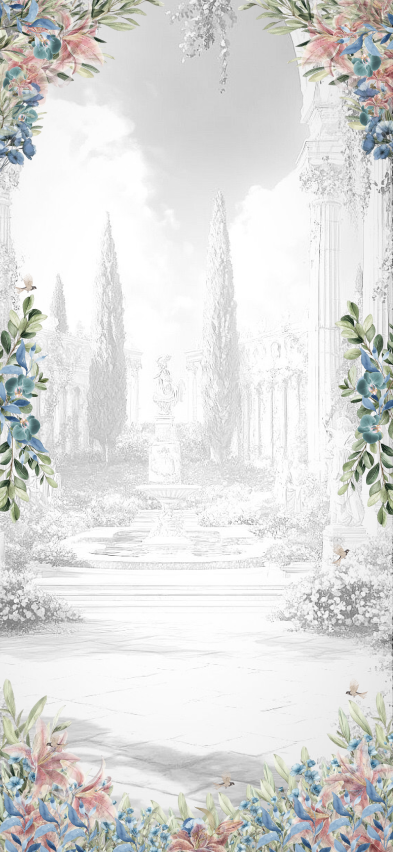
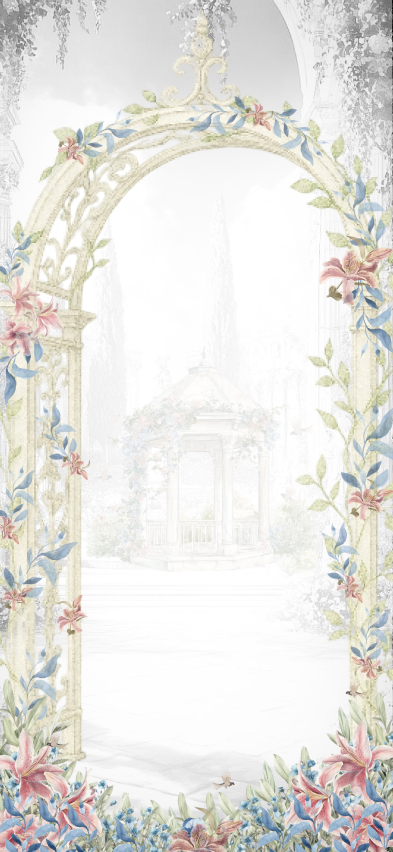
adjust opening page feature

diff --git a/src/app/v2/page.tsx b/src/app/v2/page.tsx
@@ -9,13 +9,14 @@ import Image from 'next/image'
 import { Card, CardContent } from "@/components/ui/card";
 import AddToGoogleCalendarButton from "@/features/index/components/reception-date/reception-date";
 import Link from "next/link";
-import Dashboard from "@/features/index/components/dashboard/dashboard-v3";
+import Dashboard from "@/features/index/components/dashboard/dashboard-static";
 import ButtonPlayMusic from "@/features/index/components/button-play-music";
 import { ButtonGreetings, GreetingsCard } from "@/features/index/components/greetings";
 import GiftCard from "@/features/index/components/gift/gift-card";
 import PhotoGallery from "@/features/index/components/bridal-photo/photo-gallery";
 import { openGallery } from "@/redux-store/gallerySlice";
 import { useDispatch } from "react-redux";
+import Opening from "@/features/index/components/opening/opening";
 // import Dashboard from "@/features/index/components/dashboard/dashboard";
 
 // Daftarkan plugin
@@ -112,11 +113,6 @@ export default function Home() {
 					{ scale: 1, ease: "power1.inOut", duration: 1 },
 					'='
 				)
-				.fromTo('#reception_date .text-3', 
-					{ scale: 0, },
-					{ scale: 1, ease: "power1.inOut", duration: 1 },
-					'='
-				)
 				.fromTo('#reception_date .button-1', 
 					{ scale: 0, },
 					{ scale: 1, ease: "power1.inOut", duration: 1 },
@@ -162,11 +158,6 @@ export default function Home() {
 				.fromTo('#greetings .text-1', 
 					{ scale: 0, },
 					{ scale: 1, ease: "power1.inOut", duration: 1 },
-					'='
-				)
-				.fromTo('#greetings .card', 
-					{ opacity: 0, },
-					{ opacity: 1, ease: "power1.inOut", duration: 1 },
 					'='
 				)
 				.fromTo('#greetings .button-1', 
@@ -232,20 +223,7 @@ export default function Home() {
 		<>
 			<main ref={mainContainer} className="relative min-h-screen max-w-[440px] overflow-x-hidden mx-auto bg-white">
 				<section id="opening" className="absolute top-0 min-h-screen w-full bg-[url(/backgrounds/opening.webp)] bg-cover bg-center flex flex-col items-center justify-center" style={{ zIndex: 1 }}>
-					<div className="text-[#213857] text-center">
-						<p className="font-merriweather text-3 font-bold text-lg ms-20 -mb-2 mt-24">THE WEDDING OF</p>
-						<h1 className="font-pinyonScript text-1 text-7xl xs:text-8xl -mb-1 mr-32">Bima</h1>
-						<h1 className="font-pinyonScript text-2 text-7xl xs:text-8xl -mt-1 mb-10 ms-32">Nafia</h1>
-						<p className="font-merriweather text-4 font-bold tracking-[0.25rem] mb-52 md:text-lg">25 . 10 . 2025</p>
-						<Button 
-							className="font-merriweather button-1 rounded-full bg-[#819BB1] px-16 py-6 text-white" 
-							variant="outline" 
-							onClick={() => null}
-							type="button"
-						>
-							Open Invitation
-						</Button>
-					</div>
+					<Opening />
 				</section>
 
 				<section id="dashboard" className="absolute top-0 min-h-screen w-full bg-[url(/backgrounds/dashboard.webp)] bg-cover bg-center flex flex-col items-center justify-center opacity-0">
@@ -257,13 +235,13 @@ export default function Home() {
 				<section id="bridal_photo" className="absolute top-0 min-h-screen w-full bg-[url(/backgrounds/bridal-photo.webp)] bg-cover bg-center flex flex-col items-center justify-center text-center opacity-0 overflow-hidden">
 					<h1 className="font-pinyonScript text-1 text-4xl mb-2 px-4">Bima<br /> Aurasakti Rochmatullah</h1>
 					<p className="font-merriweather	text-2 px-4">Putra dari Suluh Riawan<br /> dan Umi Adhiyati</p>
-					<div className="flex items-center justify-center">
+					<div className="image-1 relative w-[255px] h-[148px]">
 						<Image
-							className="image-1"
 							src="/images/bridal-photo/middle-flower.png"
-							width={255}
-							height={148}
 							alt="bridal photo"
+							fill
+							className="object-contain"
+							sizes="(max-width: 255px) 100vw, 50vw"
 						/>
 					</div>
 					<h1 className="font-pinyonScript text-1 text-4xl mb-2 px-4">Nafia Mufidah Fatchur</h1>
@@ -321,13 +299,22 @@ export default function Home() {
 							</div>
 						</CardContent>
 					</Card>
-					<Image
+					<div className="image-1 absolute w-[240px] h-[460px] top-12 -left-32">
+						<Image
+							className="absolute top-12 -left-32"
+							src="/images/map/flower-1.png"
+							fill
+							alt="flower"
+							sizes="(max-width: 240px) 100vw, 50vw"
+						/>
+					</div>
+					{/* <Image
 						className="absolute top-12 -left-32"
 						src="/images/map/flower-1.png"
 						width={240}
 						height={460}
 						alt="flower"
-					/>
+					/> */}
 					<Image
 						className="absolute bottom-6 right-1 xs:bottom-10 xs:right-6"
 						src="/images/map/flower-2.png"

diff --git a/src/features/index/components/dashboard/dashboard-static.tsx b/src/features/index/components/dashboard/dashboard-static.tsx
@@ -1,40 +1,28 @@
+"use client";
+
+import { RootState } from "@/redux-store/store";
+import { smoothScrollTo } from "@/utils/smoothScroll";
 import { useEffect } from "react";
+import { useSelector } from "react-redux";
 
 export default function Dashboard() {
-    useEffect(() => {
-        // Auto scroll after page and user loaded
-        const handleScroll = () => {
-            const targetY = 1900;
-            const threshold = 10;
-            let scrolling = false;
-            
-            const scroll = () => {
-                if (scrolling) return;
+  const isOpen = useSelector((state: RootState) => state.initial.isInvitationOpen);
 
-                const currentY = window.scrollY;
-                if (Math.abs(currentY - targetY) <= threshold) {
-                    console.log('Reached target scroll position:', currentY);
-                    scrolling = false;
-                    return;
-                }
+  useEffect(() => {
+    if (isOpen) {
+      smoothScrollTo(1000, 2000);
+    }
+  }, [isOpen]);
 
-                window.scrollTo({ top: targetY, behavior: 'smooth' });
-                setTimeout(scroll, 200);
-            };
-            scroll(); 
-        };
-        handleScroll()
-    })
-
-    return (
-        <div className="text-[#213857] text-center">
-            <p className="font-merriweather text-3 font-bold text-lg ms-20 -mb-2">THE WEDDING OF</p>
-            <h1 className="font-pinyonScript text-1 text-7xl xs:text-8xl -mb-1 mr-32">Bima</h1>
-            <h1 className="font-pinyonScript text-2 text-7xl xs:text-8xl -mt-1 mb-64 ms-32">Nafia</h1>
-            <p className="font-merriweather text-4 md:text-sm">Kepada Yth.</p>
-            <p className="font-merriweather text-4 text-sm mb-8">Bapak/Ibu Tamu Undangan</p>
-            <p className="font-merriweather text-4 text-lg font-bold">Nur Raihan Ramadhan S. Akt</p>
-            <p className="font-merriweather text-4 text-lg font-bold">dan Keluarga</p>
-        </div>
-    );
+  return (
+    <div className="text-[#213857] text-center">
+      <p className="font-merriweather text-3 font-bold text-lg ms-20 -mb-2">THE WEDDING OF</p>
+      <h1 className="font-pinyonScript text-1 text-7xl xs:text-8xl -mb-1 mr-32">Bima</h1>
+      <h1 className="font-pinyonScript text-2 text-7xl xs:text-8xl -mt-1 mb-64 ms-32">Nafia</h1>
+      <p className="font-merriweather text-4 md:text-sm">Kepada Yth.</p>
+      <p className="font-merriweather text-4 text-sm mb-8">Bapak/Ibu Tamu Undangan</p>
+      <p className="font-merriweather text-4 text-lg font-bold">Nur Raihan Ramadhan S. Akt</p>
+      <p className="font-merriweather text-4 text-lg font-bold">dan Keluarga</p>
+    </div>
+  );
 }

diff --git a/src/features/index/components/button-play-music.tsx b/src/features/index/components/button-play-music.tsx
@@ -2,12 +2,15 @@
 
 import { Button } from '@/components/ui/button';
 import { useTabVisibility } from '@/hooks/useTabVisibility';
+import { RootState } from '@/redux-store/store';
 import { Volume2, VolumeOff } from 'lucide-react';
 import { useEffect, useRef, useState } from 'react';
+import { useSelector } from 'react-redux';
 
 export default function ButtonPlayMusic() {
   const audioRef = useRef<HTMLAudioElement>(null);
-  const [isMuted, setIsMuted] = useState(true);
+  const [isMuted, setMuted] = useState(true);
+  const isOpen = useSelector((state: RootState) => state.initial.isInvitationOpen);
 
   useTabVisibility(
 		() => {
@@ -30,42 +33,36 @@ export default function ButtonPlayMusic() {
     const audio = audioRef.current;
     if (audio) {
       audio.muted = !audio.muted;
-      setIsMuted(audio.muted);
+      setMuted(audio.muted);
     }
   };
 
+  // 🎵 Auto play ketika undangan dibuka
   useEffect(() => {
-    const audio = audioRef.current;
-    if (!audio) return;
-
-    // Event listener untuk interaksi pertama
-    const enableSound = () => {
-      if (audio && audio.muted) {
-        audio.muted = false;
-        setIsMuted(false);
-      }
-
-      // Hanya butuh sekali, jadi remove listener
-      document.removeEventListener('click', enableSound);
-      document.removeEventListener('touchstart', enableSound);
-    };
-
-    document.addEventListener('click', enableSound, { once: true });
-    document.addEventListener('touchstart', enableSound, { once: true });
-
-    return () => {
-      document.removeEventListener('click', enableSound);
-      document.removeEventListener('touchstart', enableSound);
-    };
-  }, []);
+    if (isOpen && audioRef.current) {
+      audioRef.current.muted = false;
+      setMuted(false);
+      audioRef.current.play().catch(() => {
+        // Safari/iOS kadang butuh interaksi user → fallback ke tombol manual
+        setMuted(true);
+      });
+    }
+  }, [isOpen]);
 
   return (
     <>
-      <Button variant="default" size="icon" className="fixed size-8 rounded-full top-4 right-4 z-10" onClick={toggleMute}>
-        {isMuted ? <VolumeOff /> : <Volume2 />}
-      </Button>
+      {isOpen && (
+        <Button
+          variant="default"
+          size="icon"
+          className="fixed size-8 rounded-full top-4 right-4 z-10"
+          onClick={toggleMute}
+        >
+          {isMuted ? <VolumeOff /> : <Volume2 />}
+        </Button>
+      )}
 
-      <audio ref={audioRef} src="/songs/I_Still_Love_You.mp3" loop autoPlay muted />
+      <audio ref={audioRef} src="/songs/I_Still_Love_You.mp3" loop muted />
     </>
   );
 }

diff --git a/src/features/index/components/opening/opening.tsx b/src/features/index/components/opening/opening.tsx
@@ -1,0 +1,51 @@
+
+import { Button } from "@/components/ui/button";
+import { openInvitation } from "@/redux-store/initialSlice";
+import { RootState } from "@/redux-store/store";
+import { useEffect } from "react";
+import { useDispatch, useSelector } from "react-redux";
+import { AnimatePresence, motion } from 'framer-motion';
+
+export default function Opening() {
+    const dispatch = useDispatch();
+    const isOpen = useSelector((state: RootState) => state.initial.isInvitationOpen);
+
+    useEffect(() => {
+        if (isOpen) {
+            document.body.style.overflow = "auto";
+        } else {
+            document.body.style.overflow = "hidden";
+        }
+    }, [isOpen]);
+
+
+    return (
+        <div className="text-[#213857] text-center">
+            <p className="font-merriweather text-3 font-bold text-lg ms-20 -mb-2 mt-24">THE WEDDING OF</p>
+            <h1 className="font-pinyonScript text-1 text-7xl xs:text-8xl -mb-1 mr-32">Bima</h1>
+            <h1 className="font-pinyonScript text-2 text-7xl xs:text-8xl -mt-1 mb-10 ms-32">Nafia</h1>
+            <p className="font-merriweather text-4 font-bold tracking-[0.25rem] mb-52 md:text-lg">25 . 10 . 2025</p>
+            <div className="h-20 flex justify-center items-center">
+                <AnimatePresence>
+                    {!isOpen && (
+                        <motion.div
+                            key="box"
+                            animate={{ opacity: 1 }}
+                            exit={{ opacity: 0 }}
+                            transition={{ duration: 0.3, ease: "easeInOut" }}
+                        >
+                            <Button 
+                                className="font-merriweather button-1 rounded-full bg-[#819BB1] px-16 py-6 text-white" 
+                                variant="outline" 
+                                onClick={() => dispatch(openInvitation())}
+                                type="button"
+                            >
+                                Open Invitation
+                            </Button>
+                        </motion.div>
+                    )}
+                </AnimatePresence>
+            </div>
+        </div>
+    );
+}

diff --git a/src/utils/smoothScroll.ts b/src/utils/smoothScroll.ts
@@ -1,0 +1,27 @@
+// utils/smoothScroll.ts
+
+export function smoothScrollTo(targetY: number, duration: number = 1000) {
+  if (typeof window === "undefined") return;
+
+  const startY = window.scrollY;
+  const distance = targetY - startY;
+  const startTime = performance.now();
+
+  function animationStep(currentTime: number) {
+    const elapsed = currentTime - startTime;
+    const progress = Math.min(elapsed / duration, 1);
+
+    // easeInOutQuad
+    const easeInOutQuad = progress < 0.5
+      ? 2 * progress * progress
+      : -1 + (4 - 2 * progress) * progress;
+
+    window.scrollTo(0, startY + distance * easeInOutQuad);
+
+    if (elapsed < duration) {
+      window.requestAnimationFrame(animationStep);
+    }
+  }
+
+  window.requestAnimationFrame(animationStep);
+}

diff --git a/src/redux-store/initialSlice.ts b/src/redux-store/initialSlice.ts
@@ -1,0 +1,22 @@
+import { createSlice } from "@reduxjs/toolkit";
+
+interface InitialState {
+  isInvitationOpen: boolean;
+}
+
+const initialState: InitialState = {
+  isInvitationOpen: false,
+};
+
+const initialSlice = createSlice({
+  name: "initial",
+  initialState,
+  reducers: {
+    openInvitation: (state) => {
+      state.isInvitationOpen = true;
+    },
+  },
+});
+
+export const { openInvitation } = initialSlice.actions;
+export default initialSlice.reducer;

diff --git a/src/redux-store/store.ts b/src/redux-store/store.ts
@@ -2,10 +2,12 @@
 
 import { configureStore } from "@reduxjs/toolkit";
 import galleryReducer from "./gallerySlice";
+import initialReducer from "./initialSlice";
 
 export const store = configureStore({
   reducer: {
     gallery: galleryReducer,
+    initial: initialReducer,
   },
 });
 

diff --git a/src/features/index/components/opening/index.ts b/src/features/index/components/opening/index.ts
@@ -1,0 +1,1 @@
+export * from "./opening"
